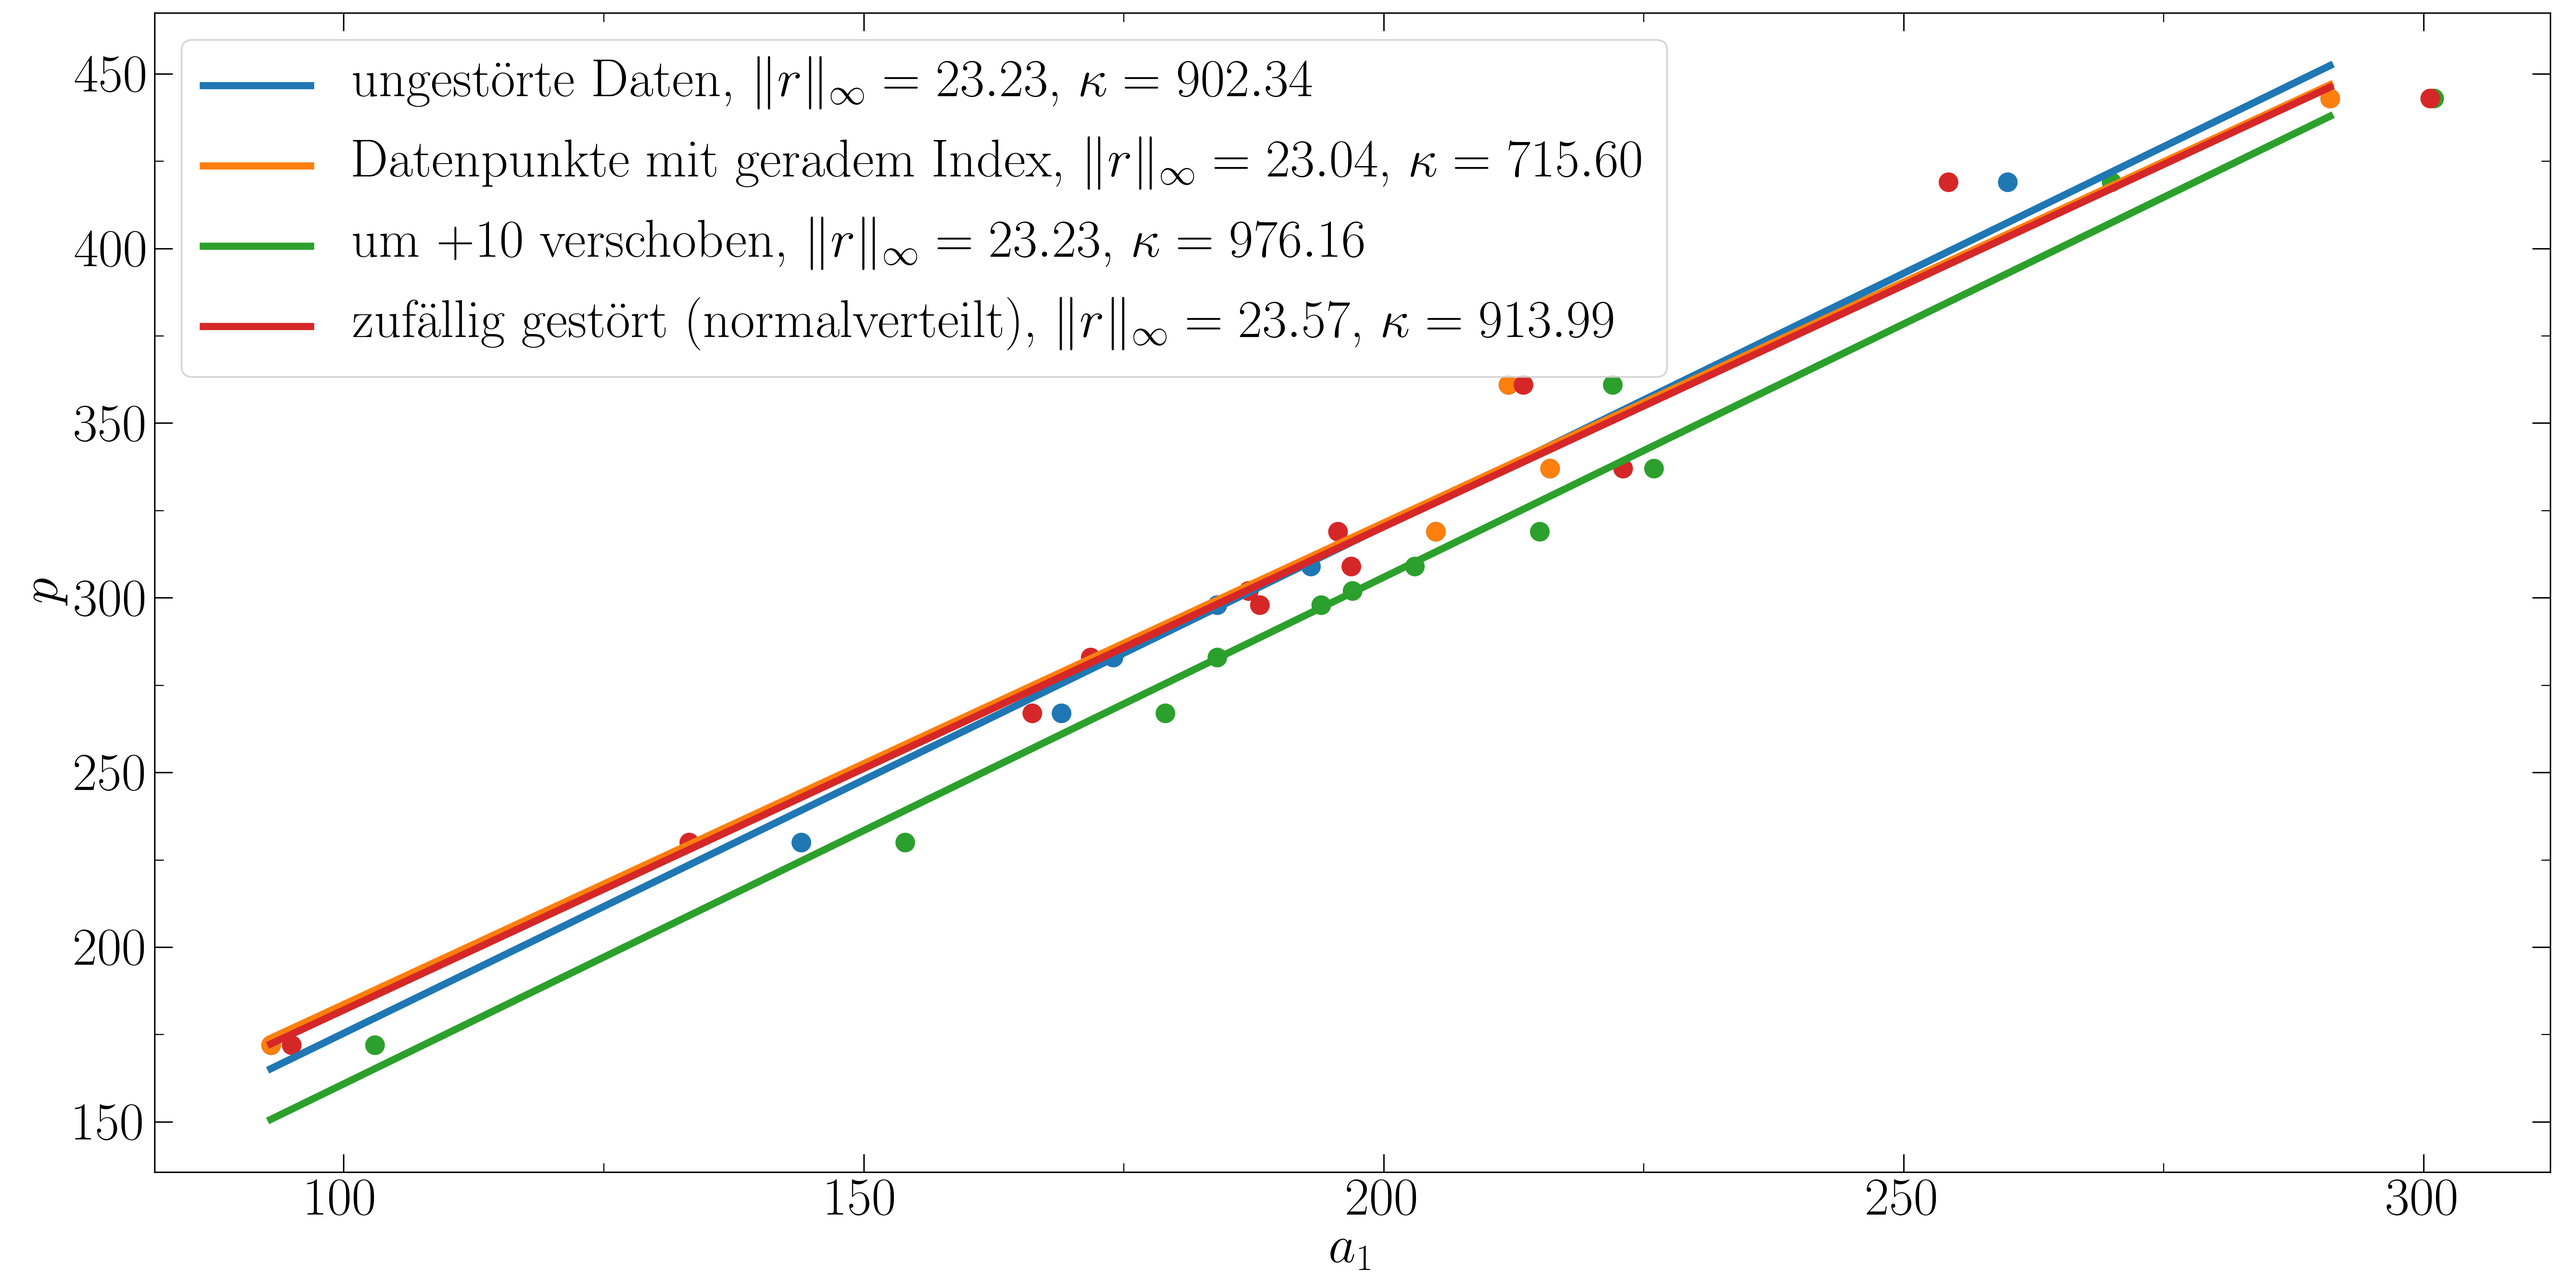
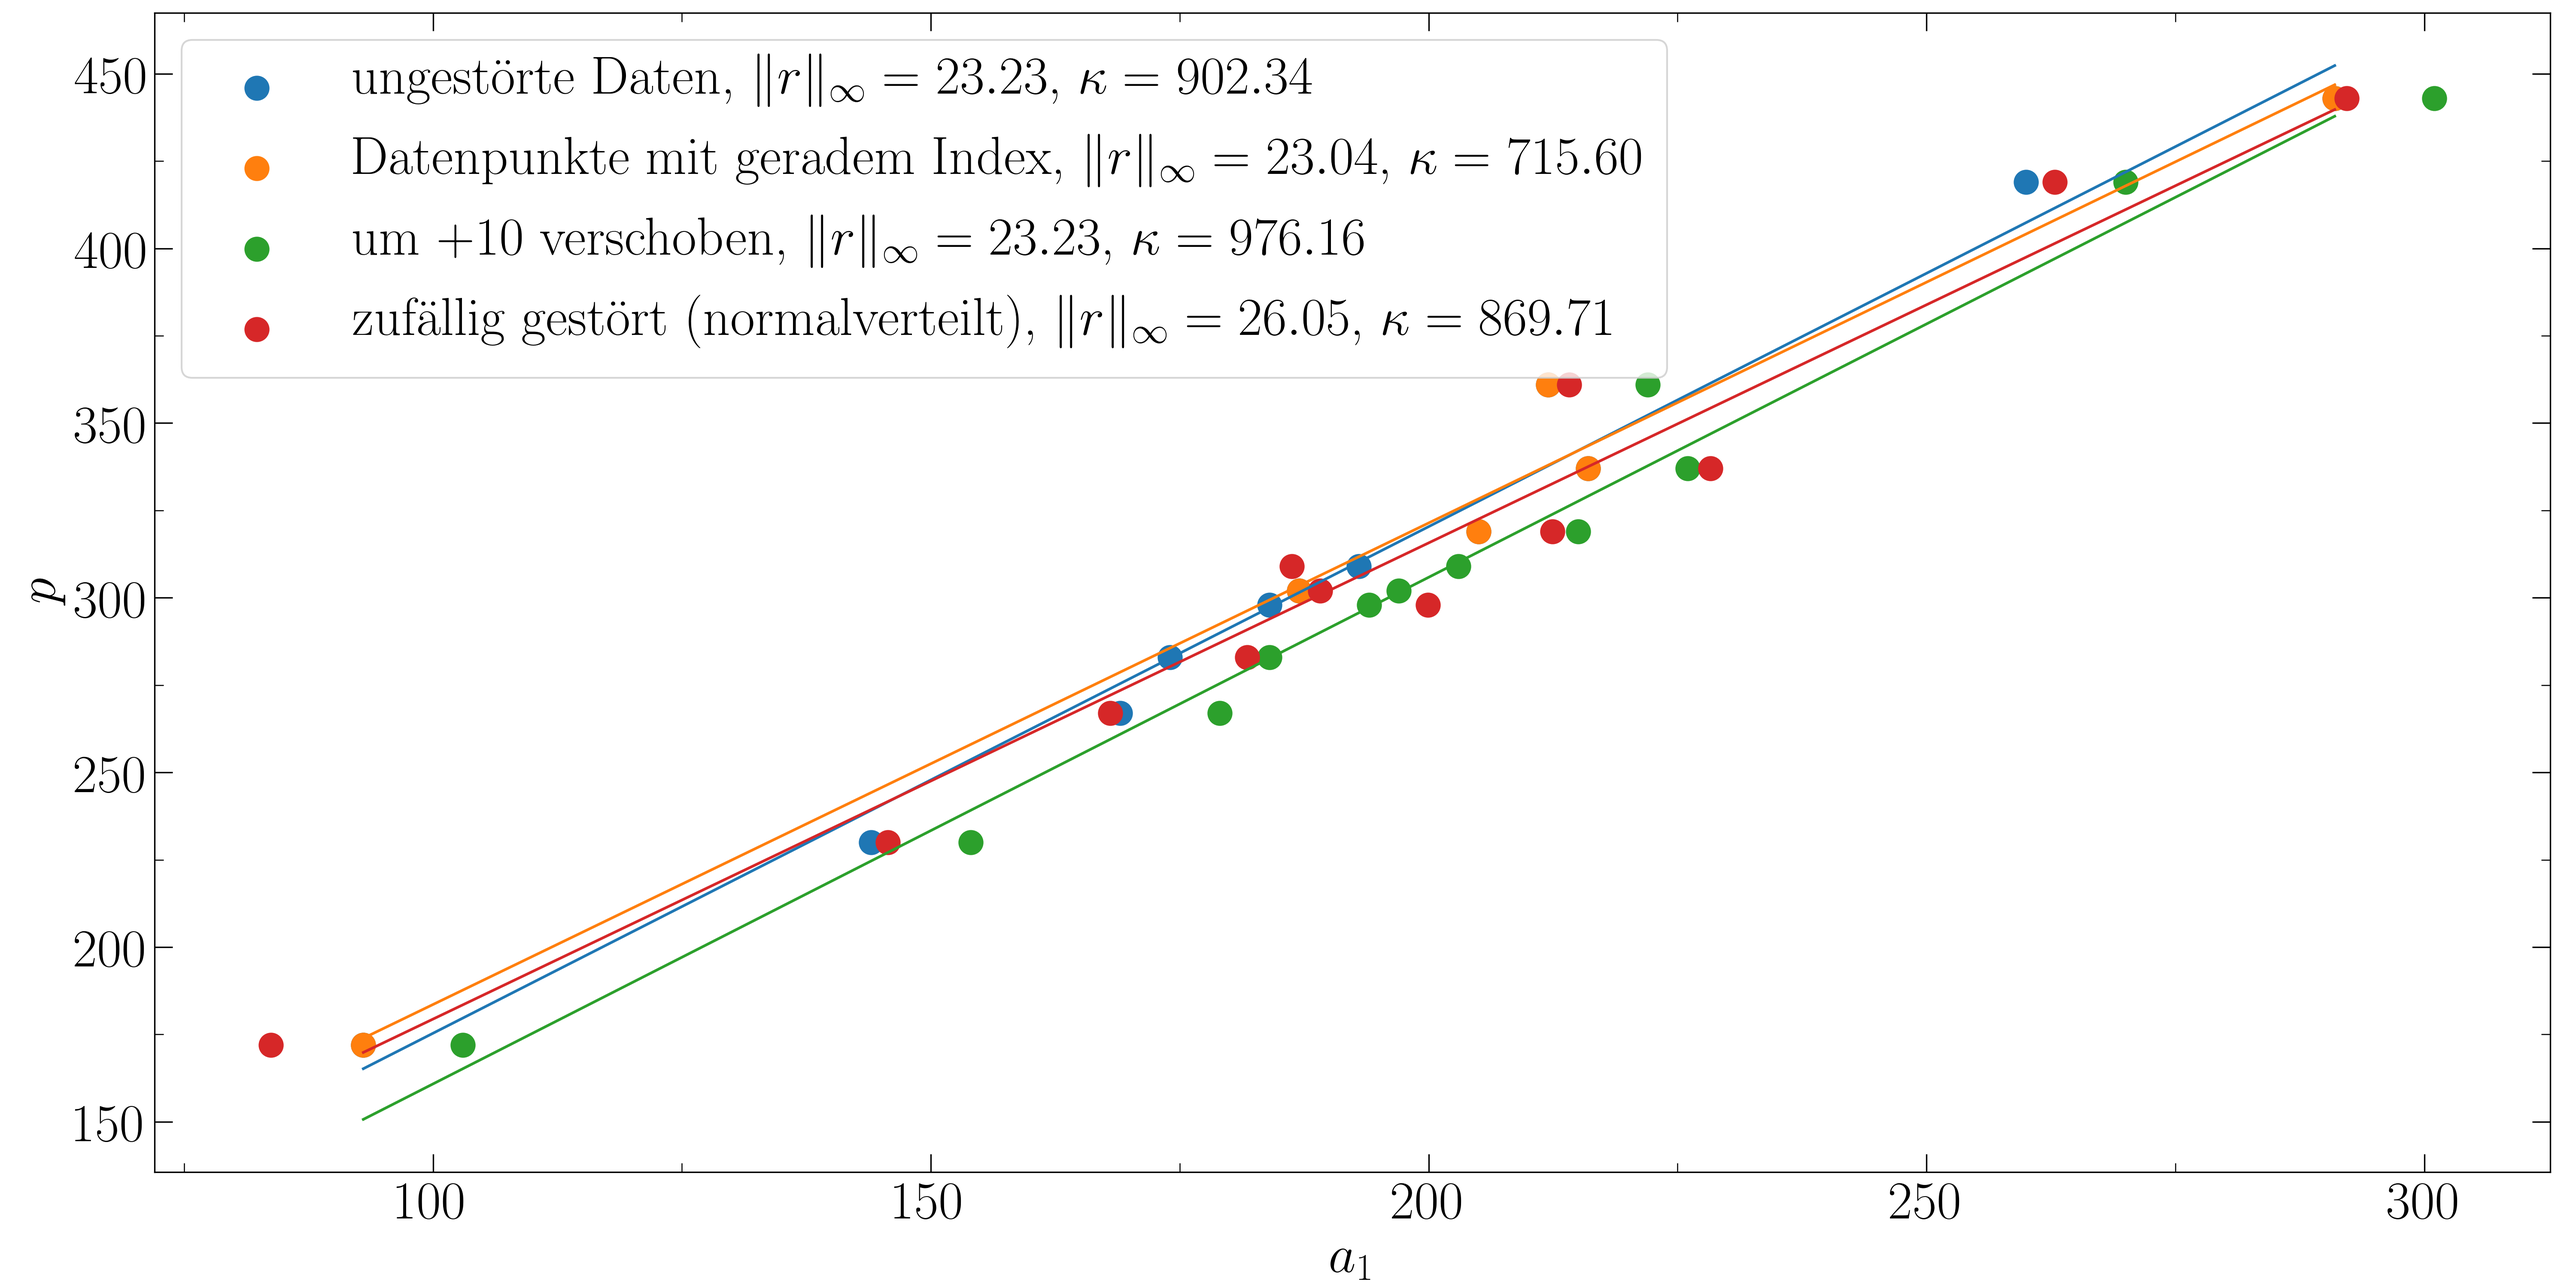
Abgabeversion

diff --git a/Serie_4/bilder_4_3.py b/Serie_4/bilder_4_3.py
@@ -76,11 +76,14 @@ def main():
 
         x = np.linspace(np.min(mat_einf[:, 1]), np.max(mat_einf[:, 1]), 50)
         # 0:.2f
-        plt.plot(x, lsg_vec[0] + lsg_vec[1]*x, label=label_lis[ind]+r", $\|r\|_\infty={:.2f}$, $\kappa={:.2f}$".format(kq_obj.res()[1], kq_obj.kond()[0]),lw=4)
+        plt.plot(x, lsg_vec[0] + lsg_vec[1]*x)#, label=label_lis[ind]+r", $\|r\|_\infty={:.2f}$, $\kappa={:.2f}$".format(kq_obj.res()[1], kq_obj.kond()[0]),lw=4)
         plt.xlabel(r"$a_1$")
         plt.ylabel(r"$p$")
-        plt.scatter(mat[:, 1], vec_lis[ind],s=100)
-    
+        if len(vec_lis[ind]) > 10:
+            plt.scatter(mat[:, 1], vec_lis[ind],s=100, label=label_lis[ind]+r", $\|r\|_\infty={:.2f}$, $\kappa={:.2f}$".format(kq_obj.res()[1], kq_obj.kond()[0]),lw=4)
+        else:
+            plt.scatter(mat[:, 1], vec_lis[ind],s=100, label=label_lis[ind]+r", $\|r\|_\infty={:.2f}$, $\kappa={:.2f}$".format(kq_obj.res()[1], kq_obj.kond()[0]),lw=4,
+                        edgecolors="", linewidths=0.5)
     # Kosmetik:
     ax.tick_params(left=True,right=True,bottom=True,top=True,which='major',length=10)
     ax.tick_params(right=True, direction='in',which='both')    
